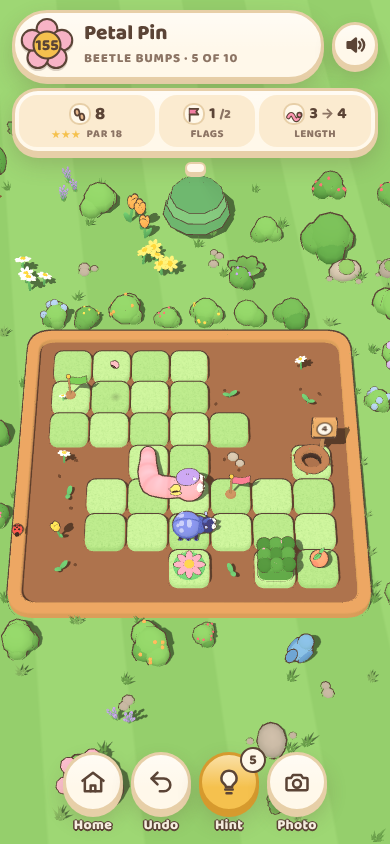
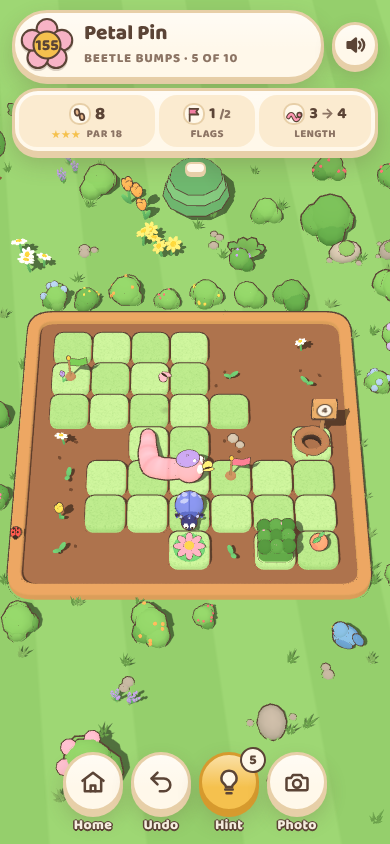
Home shows just the garden behind it
The home backdrop is a clearing on the lawn with the trees, bushes, flowers and critters round it: no bed, board or
worm. A patch is only built when one is played, and heading home swaps back to the backdrop (the resume slot keeps
play in between).

Claude-Session: https://claude.ai/code/session_018b3cP1De1FMBieJja8GZr1

diff --git a/src/game/models/garden.js b/src/game/models/garden.js
@@ -161,20 +161,21 @@ let flyShadows=[], bedBox={cx:0,cz:0,hw:1,hd:1};
 // things standing on the lawn, so the bird hops around them instead of through them
 let lawnObstacles=[], treeObstacles=[];
 function buildGarden(){ swayers=[]; lawnObstacles=[];
-  disposeTree(garden); garden.clear(); const r=rng(mode==='garden'?li*97+13:(L.seed|0));
+  disposeTree(garden); garden.clear(); const r=rng(L.home?L.seed:mode==='garden'?li*97+13:(L.seed|0));
   const lawn=new THREE.Mesh(new THREE.PlaneGeometry(240,240),lawnMat); lawn.rotation.x=-Math.PI/2; lawn.rotation.z=.12; lawn.position.y=-.34;
     lawn.receiveShadow=true; garden.add(lawn);
   let x0=1e9,x1=-1e9,y0=1e9,y1=-1e9;
   for(let y=0;y<state.h;y++) for(let x=0;x<state.w;x++) if(state.grid[y][x]!==' '){ x0=Math.min(x0,x); x1=Math.max(x1,x); y0=Math.min(y0,y); y1=Math.max(y1,y);
     }
   const c0=wp(x0,y0), c1=wp(x1,y1); const cx=(c0.x+c1.x)/2, cz=(c0.z+c1.z)/2, bw=c1.x-c0.x+1+.9, bd=c1.z-c0.z+1+.9;
-  const soil=new THREE.Mesh(slab(bw,bd,.45,.14,.05),m('soil')); soil.position.set(cx,-.29,cz); soil.receiveShadow=true; garden.add(soil);
+  // the home backdrop (L.home) is a clearing on the lawn: no bed, no border, the same garden round it
+  if(!L.home){ const soil=new THREE.Mesh(slab(bw,bd,.45,.14,.05),m('soil')); soil.position.set(cx,-.29,cz); soil.receiveShadow=true; garden.add(soil);
   // wooden border around the bed
   const outer=rrShape(bw+.42,bd+.42,.6); outer.holes.push(rrShape(bw-.02,bd-.02,.45));
   const fg=new THREE.ExtrudeGeometry(outer,{depth:.18,bevelEnabled:true,bevelThickness:.05,bevelSize:.04,bevelSegments:4,curveSegments:10});
     fg.rotateX(-Math.PI/2);
   const frame=new THREE.Mesh(fg,m('wood')); frame.position.set(cx,-.3,cz); frame.castShadow=true; frame.receiveShadow=true; garden.add(frame);
-  const fo=new THREE.Mesh(fg,lineMat); fo.scale.set(1.006,1.15,1.006); fo.position.y=-.01; frame.add(fo);
+  const fo=new THREE.Mesh(fg,lineMat); fo.scale.set(1.006,1.15,1.006); fo.position.y=-.01; frame.add(fo); }
   const scen=new THREE.Group();
   // plants in the soil wherever the worm cannot go
   for(let y=Math.floor(y0-.0);y<=y1;y++) for(let x=x0;x<=x1;x++){ if(state.grid[y][x]!==' ') continue; const roll=r(); if(roll<.22) continue;

diff --git a/src/game/play/levels.js b/src/game/play/levels.js
@@ -3,7 +3,12 @@ function loadLevel(i,withHint=true){ if(i!==li) noteQuit(); mode='garden'; li=i;
 let nudged=false, playT=0;
 const playTime=()=>{ const s=Math.round(playT); return s<60?`${s}s`:`${Math.floor(s/60)}m ${String(s%60).padStart(2,'0')}s`; };
 let pollensHere=new Set();
-function startLevel(def,withHint=true){ nudged=false; playT=0; pollensHere=new Set(); turnsHere=0;
+// The home screen's backdrop: just the garden (trees, bushes, flowers, critters) round an empty clearing, with no patch,
+// board or worm. A patch is only built when one is played; heading home swaps back to this (the resume slot keeps play).
+const HOME_DEF={name:'Home',home:true,hint:'',par:1,exitLen:2,seed:7,worm:[[1,2],[0,2]],map:['.....','.....','....E','.....','.....']};
+function homeBackdrop(){ if(L&&L.home) return; L=HOME_DEF; state=initState(L); history=[]; queue.length=0; slideSteps.length=0; clearHint();
+  $('wormSayG').hidden=true; buildBoard(); board.visible=fx.visible=wormG.visible=false; fitCamera(); }
+function startLevel(def,withHint=true){ board.visible=fx.visible=true; nudged=false; playT=0; pollensHere=new Set(); turnsHere=0;
   L=def; state=initState(L); history=[]; queue.length=0; slideSteps.length=0; wasReady=false; hintsUsed=0; undosHere=0; clearHint(); $('wormSayG').hidden=true;
     gSayT=0;
   $('raceBar').hidden=mode!=='race'; buildBoard(); snapWorm(); fitCamera(); updateHUD(true); hudIntro(); lastMoveT=idleT;

diff --git a/src/game/core/boot.js b/src/game/core/boot.js
@@ -15,7 +15,7 @@ const start=()=>{ const i=currentGardenIndex();
     checkBadges(null,true); pickTod(); setInterval(pickTod,60000); setTimeout(statsBoot,2000);
   mode='garden'; li=i; showHome(true);
   // the home screen is already up; the garden and the home worm are built on the next frame and fade in
-  requestAnimationFrame(()=>{ startLevel(LEVELS[i],false); initHomeWorm(); requestAnimationFrame(frame);
+  requestAnimationFrame(()=>{ homeBackdrop(); initHomeWorm(); requestAnimationFrame(frame);
     const inv=location.hash.match(/^#race=([A-Za-z0-9_-]+)/); if(inv){ try{ window.history.replaceState(null,'',location.pathname+location.search); }catch(e){} setTimeout(()=>raceJoin(inv[1]),400); }
     const ask=new URLSearchParams(location.search).get('play'); if(ask){ try{ window.history.replaceState(null,'',location.pathname); }catch(e){} launchPlay(ask); } }); };
 // what a launch URL asks for (?play=daily|meadow|continue|race): the app shortcuts and the reminder use these

diff --git a/src/game/models/visitors.js b/src/game/models/visitors.js
@@ -27,7 +27,7 @@ function birdie(){ const g=new THREE.Group(), body=m('gdBird'), wing=m('gdBirdWi
   const bird=merged(g,1.7), hg=merged(head,1); hg.position.set(0,.3,.08); bird.add(hg); bird.userData.head=hg; return bird; }
 function buildCritters(r,cx,cz,bw,bd){ critters=[];
   // the ladybug walks the top of the wooden border, now and then stopping for a rest
-  const bug=ladybug(); garden.add(bug); critters.push({kind:'bug',o:bug,s:r()*4,rest:0,dir:r()<.5?1:-1,hw:bw/2+.12,hd:bd/2+.12,cx,cz});
+  if(!L.home){ const bug=ladybug(); garden.add(bug); critters.push({kind:'bug',o:bug,s:r()*4,rest:0,dir:r()<.5?1:-1,hw:bw/2+.12,hd:bd/2+.12,cx,cz}); }
   if(quality===0) return;
   // a bird visits the lawn in front of the bed and hops about
   const bird=birdie(); garden.add(bird); const c={kind:'bird',o:bird,cx,cz,hw:bw/2,hd:bd/2,mode:'eat',t:0,wait:0,to:null,peck:0,look:0,lookTo:0};

diff --git a/src/game/home/tabs.js b/src/game/home/tabs.js
@@ -1,5 +1,5 @@
 // ---------- home ----------
-function showHome(quiet){ noteQuit(); if(mode==='race'&&race&&!isOpen('raceOv')) raceEnd(); if(updateReady){ location.reload(); return; } document.title='Squirm'; const was=curTab; showTab('play',true); renderHome();
+function showHome(quiet){ noteQuit(); if(mode==='race'&&race&&!isOpen('raceOv')) raceEnd(); if(L) homeBackdrop(); if(updateReady){ location.reload(); return; } document.title='Squirm'; const was=curTab; showTab('play',true); renderHome();
   show('homeOv');
   if(quiet) return; if(was==='play') tabIntro('play'); stagger(document.querySelectorAll('.home-top .home-pills,.home-top .round:not([hidden])'),'enter',0,50);
     stagger(document.querySelectorAll('.tabbar .tab'),'rise',150,40); }

diff --git a/CLAUDE.md b/CLAUDE.md
@@ -411,6 +411,9 @@ says which file holds what, and a search for a function name finds it fast.
 
 ### Home (`homeOv`; `home/`, the map in `play/levels.js`)
 
+Behind it is only the garden: `homeBackdrop` (`play/levels.js`) builds `HOME_DEF` (`L.home`), a clearing on the lawn
+with no bed, border, board or worm (`buildGarden` and `buildCritters` skip the bed pieces and the ladybug), at boot and
+whenever `showHome` runs; a patch is built only when one is played, and the resume slot keeps play in between.
 Five tabs switched by `showTab`; on screens 600px and wider the tab bar floats as a card the width of the content
 column. Dialogs are at most 720px tall (they scroll inside). Above them, stars and hint seeds share one pill (`.home-pills`, two buttons with a
 line between): the seeds half opens `seedInfo`, the stars half `gardenInfo` (`garOv`, layer `gar`, in `ui/finale.js`):
@@ -587,7 +590,7 @@ from a tab replaces that layer with `game`.
   textures grow.
 - **Fast first paint** (`core/boot.js`, `shell.html`): the home overlay is visible in the markup, and the `boot` script in `shell.html`
   fills in stars, the Continue text and the daily card from `squirm-boot` (written by `renderHome`) before
-  three.js loads. `start` shows home first and builds the garden a frame later; the 3D canvases fade in
+  three.js loads. `start` shows home first and builds the home backdrop a frame later; the 3D canvases fade in
   (`.ready`) once they've drawn. The `theme` script in `<head>` applies a forced theme before first paint.
 - **Offline, install and updates** (`platform/offline.js`): `sw.js` is registered at boot (http/https only) and checked for updates
   when the app returns to the foreground and every 30 minutes. A new worker takes over right away; the page
